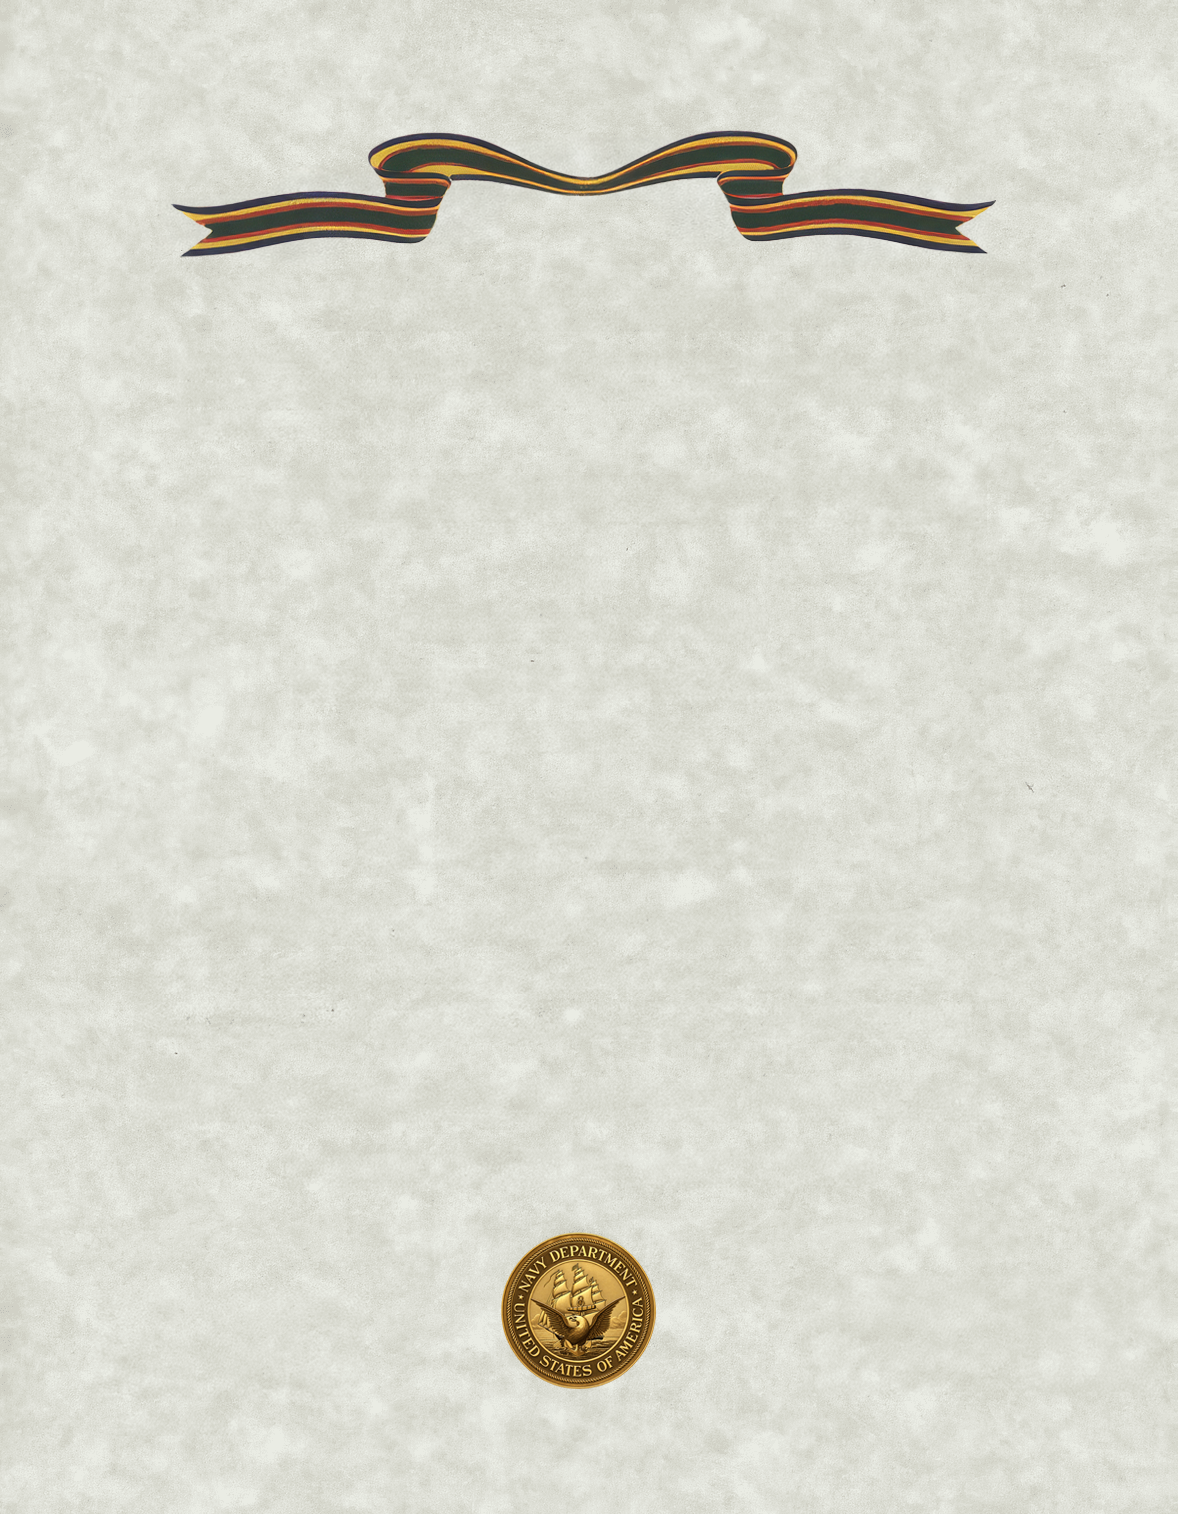
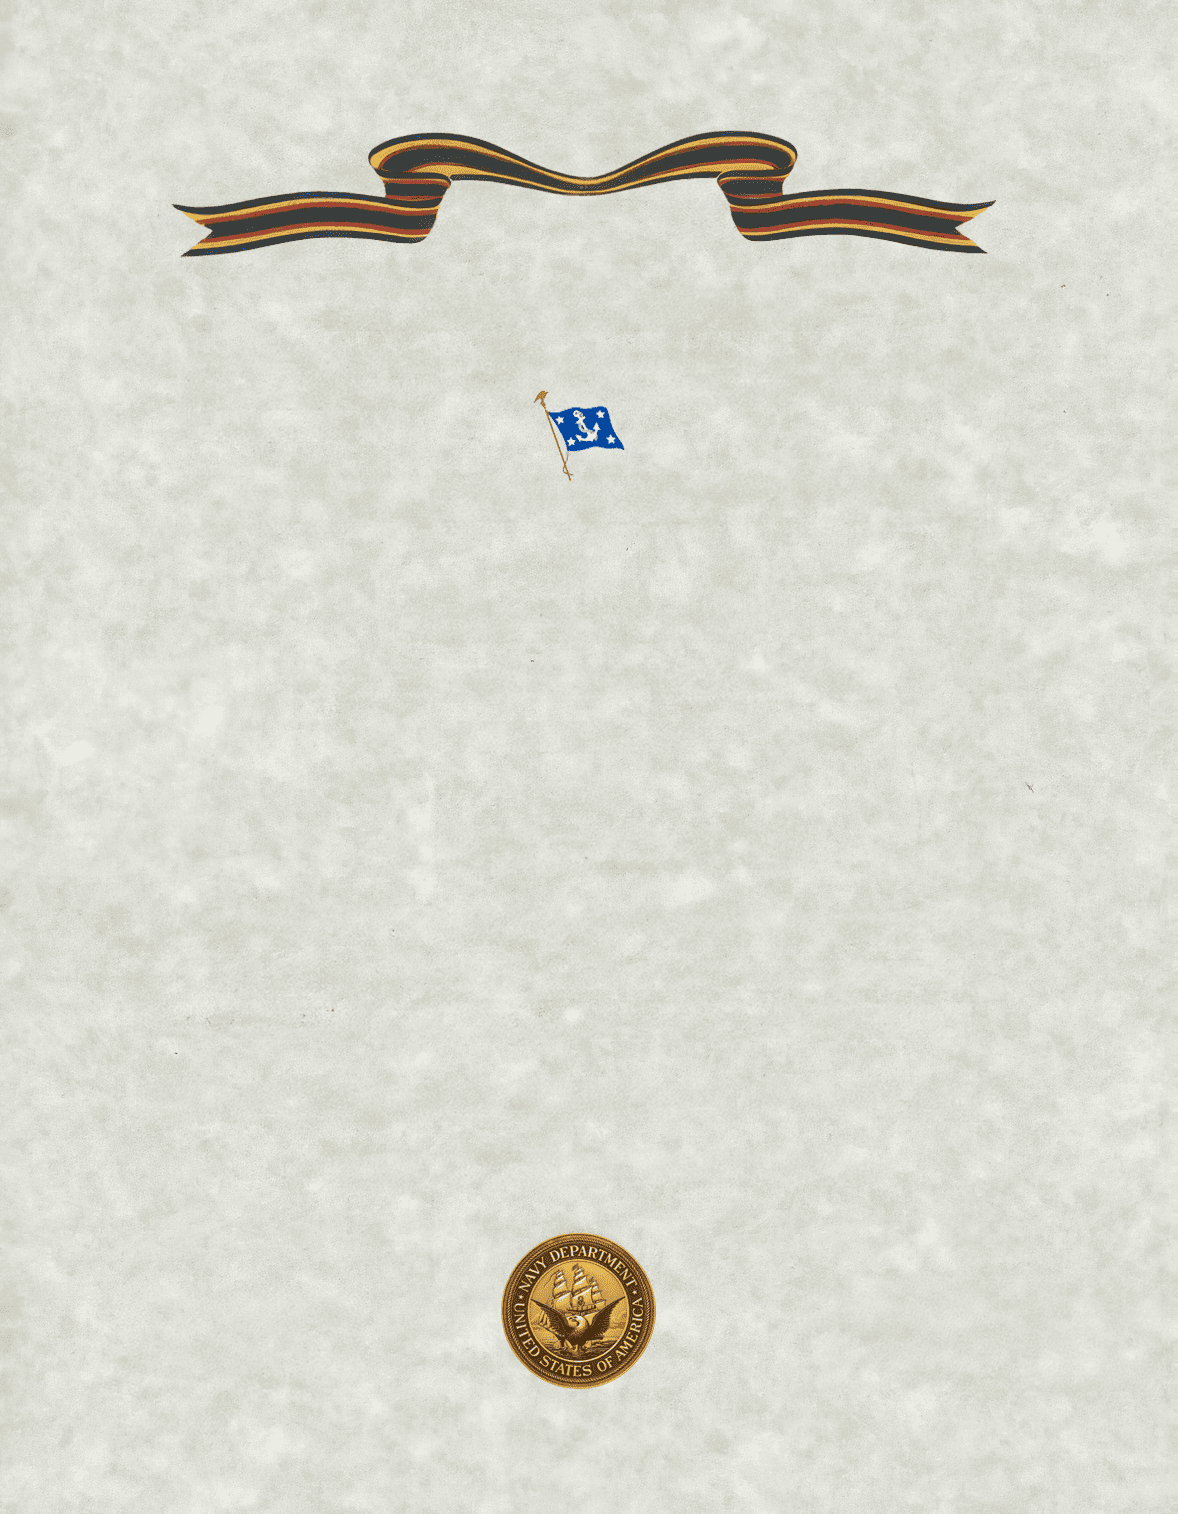
Sanity pass over the award paperwork
Four faults in how a certificate is built, three of them found by Codex
reviewing the USAF set, one that came out of checking the fix.

The rung of a repeat award was resolved through a map keyed by family
name. air_medal exists in both the Air Force and the naval tables, so
the naval ladder overwrote the Air Force one and every Air Force repeat
resolved to the base decoration - no device, no entitlement. The map is
keyed by award id now, which cannot collide.

The repeat-award class the stylesheet has rules for was never put on
the sheet, so those rules had never once applied.

On a form with a closing block the reason is not the end of the thought:
the DUC and both naval unit citations run one sentence straight through
it - "EXTRAORDINARY HEROISM" / "AND OUTSTANDING PERFORMANCE OF DUTY..." -
and the entitlement was wedged in between, leaving a dangling "AND". It
now goes after the first closing line, which finishes that sentence and
leaves any attestation below it, the Navy PUC's "BY ORDER OF THE
SECRETARY OF THE NAVY" and the ROK PUC's "Authorized by the Minister of
Defense", as the last word. Codex had fixed this for the DUC alone and
by appending to the last closing line, which on those two forms is the
attestation.

The ROK PUC form prefixes its command with "U.S.", which on a naval
sheet made "U.S. UNITED STATES NAVAL FORCES".

With the entitlement moved, the repeat layouts follow: the Navy PUC's
award statement keeps its place and simply runs longer, and the Navy
[…]

diff --git a/korea_service_record/static/css/certificate.css b/korea_service_record/static/css/certificate.css
@@ -58,6 +58,7 @@
 .sheet.portrait.duc .ct-for { top: 52.6%; font-family: 'Times New Roman', Georgia, serif; font-size: 1.85em; font-weight: normal; line-height: 1; letter-spacing: 0.05em; -webkit-text-stroke: 0.02em currentColor; }
 .sheet.portrait.duc .ct-for-label { display: block; margin: 0 0 0.85em; }
 .sheet.portrait.duc .ct-close { top: 60.4%; font-size: 1.35em; text-align: justify; text-align-last: left; line-height: 1.85; letter-spacing: 0.06em; }
+.sheet.portrait.duc.repeat-award .ct-close { top: 59.9%; line-height: 1.55; }
 .sheet.portrait.duc .ct-given-block { position: absolute; top: 71.2%; }
 .sheet.portrait.duc .ct-given-block .ct-given { position: static; display: block; font-size: 1.75em; letter-spacing: 0.04em; margin-bottom: 0.55em; }
 .sheet.portrait.duc .ct-signature { bottom: 8.5%; }
@@ -80,25 +81,65 @@
 .sheet.portrait.navy_puc .ct-for-label { display: block; text-align: center; margin-bottom: 0.9em; }
 .sheet.portrait.navy_puc .ct-deed { display: none; }
 .sheet.portrait.navy_puc .ct-close { top: 60%; font-size: 1.2em; line-height: 1.55; text-align: justify; text-align-last: center; }
+/* A repeat citation lengthens the award statement rather than the reason, so
+   the statement keeps its place and simply runs two lines further down; the
+   order line below it already sits clear of them. */
 .sheet.portrait.navy_puc .ct-close + .ct-close { top: 69%; font-style: italic; }
 .sheet.portrait.navy_puc .ct-given-block { top: 73.5%; }
 .sheet.portrait.navy_puc .ct-given { font-size: 1.45em; }
 .sheet.portrait.navy_puc .ct-signature.right { right: auto; left: 66%; transform: translateX(-50%); bottom: 7%; width: 32%; }
 
-.sheet.portrait.navy_unit_commendation .ct-country { top: 25.5%; font-size: 2em; letter-spacing: 0.07em; }
-.sheet.portrait.navy_unit_commendation .ct-pre { top: 31%; font-size: 1.15em; line-height: 1.45; }
-.sheet.portrait.navy_unit_commendation .ct-pre + .ct-pre { top: 34%; }
-.sheet.portrait.navy_unit_commendation .ct-name { top: 38%; font-size: 3em; letter-spacing: 0.045em; white-space: nowrap; }
-.sheet.portrait.navy_unit_commendation .ct-to { top: 44%; font-size: 1.4em; }
-.sheet.portrait.navy_unit_commendation .ct-recipient { top: 47.5%; font-size: 1.55em; }
-.sheet.portrait.navy_unit_commendation .ct-unit { top: 51%; font-size: 1.2em; }
-.sheet.portrait.navy_unit_commendation .ct-service { top: 54%; font-size: 1.15em; }
-.sheet.portrait.navy_unit_commendation .ct-for { top: 58%; font-size: 1.35em; line-height: 1.45; text-align: justify; text-align-last: center; }
-.sheet.portrait.navy_unit_commendation .ct-for-label { display: block; text-align: center; margin-bottom: 0.75em; }
+.sheet.portrait.navy_unit_commendation .ct-country {
+    top: 20.2%; font-size: 2.8em; letter-spacing: 0.015em;
+}
+.sheet.portrait.navy_unit_commendation .ct-pre {
+    font-family: 'Times New Roman', Georgia, serif; line-height: 1;
+}
+/* The flag is printed on the blank: Department heading above it,
+   Washington below it, then the two lines of award language. */
+.sheet.portrait.navy_unit_commendation .ct-country + .ct-pre {
+    top: 33%; font-size: 1.35em; letter-spacing: 0.04em;
+}
+.sheet.portrait.navy_unit_commendation .ct-country + .ct-pre + .ct-pre {
+    top: 36.6%; font-size: 1.2em; letter-spacing: 0.015em;
+}
+.sheet.portrait.navy_unit_commendation .ct-country + .ct-pre + .ct-pre + .ct-pre {
+    top: 39.5%; font-size: 1.2em; letter-spacing: 0.015em;
+}
+.sheet.portrait.navy_unit_commendation .ct-name {
+    top: 43.5%; font-size: 3.6em; letter-spacing: 0.015em; white-space: nowrap;
+}
+.sheet.portrait.navy_unit_commendation .ct-to { top: 49%; font-size: 1.5em; }
+.sheet.portrait.navy_unit_commendation .ct-recipient {
+    top: 52.6%; font-size: 1.7em; font-weight: bold; letter-spacing: 0.035em;
+}
+.sheet.portrait.navy_unit_commendation .ct-unit {
+    top: 56.4%; font-family: 'Courier New', Courier, monospace;
+    font-size: 1.45em; font-weight: bold; letter-spacing: 0.025em;
+}
+.sheet.portrait.navy_unit_commendation .ct-service {
+    top: 59.3%; font-size: 1.3em; letter-spacing: 0.08em;
+}
+.sheet.portrait.navy_unit_commendation .ct-for {
+    top: 62.2%; left: 8%; right: 8%; font-size: 1.4em; font-weight: bold;
+    line-height: 1.45; text-align: justify; text-align-last: center;
+}
+/* The entitlement for a repeat goes at the end of the award statement, which
+   then runs to four lines. The statement starts higher and the date block
+   moves down to make room; there is space, the signature being at 91%. */
+.sheet.portrait.navy_unit_commendation.repeat-award .ct-close { top: 68.2%; }
+.sheet.portrait.navy_unit_commendation.repeat-award .ct-given-block { top: 76%; }
+.sheet.portrait.navy_unit_commendation .ct-for-label {
+    display: block; margin-bottom: 0.75em; text-align: center;
+    font-family: 'Times New Roman', Georgia, serif; font-weight: normal;
+}
 .sheet.portrait.navy_unit_commendation .ct-deed { display: none; }
-.sheet.portrait.navy_unit_commendation .ct-close { top: 67%; font-size: 1.2em; line-height: 1.55; text-align: justify; text-align-last: center; }
-.sheet.portrait.navy_unit_commendation .ct-given-block { top: 77%; }
-.sheet.portrait.navy_unit_commendation .ct-given { font-size: 1.4em; }
+.sheet.portrait.navy_unit_commendation .ct-close {
+    top: 69.5%; left: 8%; right: 8%; font-size: 1.35em; font-weight: bold;
+    line-height: 1.65; text-align: justify; text-align-last: center;
+}
+.sheet.portrait.navy_unit_commendation .ct-given-block { top: 74.8%; }
+.sheet.portrait.navy_unit_commendation .ct-given { font-size: 1.65em; }
 .sheet.portrait.navy_unit_commendation .ct-signature.right { right: auto; left: 66%; transform: translateX(-50%); bottom: 5%; width: 32%; }
 
 /* The filled naval examples use a short award statement rather than a

diff --git a/korea_service_record/static/js/certificate.js b/korea_service_record/static/js/certificate.js
@@ -70,7 +70,7 @@
         const line = (cls, text) => text ? '<div class="' + cls + '">' + esc(text) + "</div>" : "";
         const nameBlock = line("ct-to", c.to) + line("ct-recipient", c.name) + line("ct-unit", c.unit_line) + line("ct-service", c.service);
         el("ct-sheet").innerHTML =
-            '<section class="sheet usaf ' + esc(family) + (drawn ? " drawn" : "") + (portrait ? " portrait" : "") + '"' + style + ">" +
+            '<section class="sheet usaf ' + esc(family) + (drawn ? " drawn" : "") + (portrait ? " portrait" : "") + (c.repeat_award ? " repeat-award" : "") + '"' + style + ">" +
                 (drawn ? "" : '<img class="ct-medal" src="' + esc(data.icon) + '" alt="">') +
                 (c.seal_overlay ? '<img class="ct-service-seal" src="' + esc(c.seal_overlay) + '" alt="">' : "") +
                 '<div class="ct-text">' +

diff --git a/korea_service_record/citations.py b/korea_service_record/citations.py
@@ -134,12 +134,18 @@ def _fill(template: str, facts: Dict[str, Any]) -> str:
     return template.format_map(_Safe(facts))
 
 
-_LADDERS = {}
+# Resolve the rung by award id. A family name such as ``air_medal`` exists in
+# both the USAF and naval tables, so a family-keyed map lets the later naval
+# table overwrite the USAF ladder and silently treats every USAF repeat as
+# the base decoration.
+_RUNG = {}
 for _table in (_USAF_SORTIE, _USAF_PERIOD, _USAF_UNIT, _USAF_SERVICE,
                _NAVAL_SORTIE, _NAVAL_PERIOD, _NAVAL_UNIT, _NAVAL_SERVICE):
-    _LADDERS.update(_table)
+    for _ids in _table.values():
+        for _index, _award_id in enumerate(_ids):
+            _RUNG[_award_id] = _index
 # Twin ids for one rung (the Bronze Star V ladder): both count as that rung.
-_RUNG = {601058: 0, 601059: 1, 601061: 1, 601060: 2, 601062: 2}
+_RUNG.update({601058: 0, 601059: 1, 601061: 1, 601060: 2, 601062: 2})
 _RUNG.update({602048: 0, 602049: 1, 602051: 1, 602050: 2, 602052: 2})
 
 # Naval families whose citation prose follows an existing U.S. family. The
@@ -182,6 +188,10 @@ def _naval_text(text: str, texts: Dict[str, Any], country: int,
     # references such as "Air Force" with the member's actual branch.
     text = replace_term(text, "Department of the Air Force", "Department of the Navy")
     text = replace_term(text, "Secretary of the Air Force", "Secretary of the Navy")
+    # The ROK PUC form prefixes the command with "U.S.". Replace the whole
+    # phrase so a Navy form cannot become "U.S. UNITED STATES NAVAL FORCES".
+    text = replace_term(text, "U.S. Far East Air Forces",
+                        branch.get("command", "United States Naval Forces, Far East"))
     text = replace_term(text, naval.get("air_force", "United States Air Force"),
                         branch.get("service", "United States Navy"))
     text = replace_term(text, naval.get("air_command", "Far East Air Forces"),
@@ -197,11 +207,7 @@ def _naval_text(text: str, texts: Dict[str, Any], country: int,
 
 def _rung(award_id: int) -> int:
     """How far up its ladder an award sits: 0 for the decoration itself."""
-    if award_id in _RUNG:
-        return _RUNG[award_id]
-    fam = FAMILY.get(award_id)
-    ids = _LADDERS.get(fam[1], ()) if fam else ()
-    return ids.index(award_id) if award_id in ids else 0
+    return _RUNG.get(award_id, 0)
 
 
 def _ordinal(cert: Dict[str, Any], day: int) -> str:
@@ -295,6 +301,7 @@ def certificate(lang: str, award_id: int, facts: Dict[str, Any], received: str,
             fill.update({"DAY": "", "MONTH": "", "YEAR": ""})
         given = [_fill(line, fill) for line in form.get("given", [])]
         reason = _fill(form.get("reason", ""), fill)
+        close = [_fill(line, fill) for line in form.get("close", "").split(chr(10)) if line]
         if device:
             # The medal as the form names it, without its article.
             medal = form.get("title", "")
@@ -302,7 +309,23 @@ def certificate(lang: str, award_id: int, facts: Dict[str, Any], received: str,
             clause = _fill(cert["repeat"], {"DEVICE": device, "MEDAL": medal})
             if reason and reason[0].isupper() and not reason.isupper():
                 clause = clause.lower().replace("oak leaf cluster", "Oak Leaf Cluster").replace(medal.lower(), medal.title())
-            reason = reason.rstrip(".") + clause
+            entitlement = clause.lstrip(", ")
+            if entitlement.upper().startswith("AND "):
+                entitlement = entitlement[4:]
+            recipient = "THE RECIPIENT " if reason.isupper() else "The recipient "
+            if close:
+                # On a form with a closing block the reason is not the end of
+                # the thought - the DUC and both naval unit citations run one
+                # sentence straight through it ("EXTRAORDINARY HEROISM" / "AND
+                # OUTSTANDING PERFORMANCE OF DUTY..."), so a clause wedged in
+                # between leaves a dangling "AND". The entitlement goes after
+                # the first closing line instead, which finishes that sentence
+                # and still leaves any attestation below it - the Navy PUC signs
+                # off "BY ORDER OF THE SECRETARY OF THE NAVY", the ROK PUC
+                # "Authorized by the Minister of Defense" - as the last word.
+                close[0] = close[0].rstrip() + " " + recipient + entitlement
+            else:
+                reason = reason.rstrip(".") + ". " + recipient + entitlement
         offices = form.get("signer", "fifth")
         if isinstance(offices, str):
             offices = ["", offices]                      # right-hand signature only
@@ -325,6 +348,7 @@ def certificate(lang: str, award_id: int, facts: Dict[str, Any], received: str,
         return {
             "form": "usaf",
             "template": template,
+            "repeat_award": bool(device),
             "seal_overlay": ("/static/images/certificates/Navy_seal_overlay_landscape.png"
                              if seal_overlay else ""),
             "header": form.get("header", ""),
@@ -340,7 +364,7 @@ def certificate(lang: str, award_id: int, facts: Dict[str, Any], received: str,
             "reason": reason,
             "where": _fill(form.get("where", ""), fill),
             "deed": paragraphs[1] if len(paragraphs) > 2 else "",
-            "close": [_fill(line, fill) for line in form.get("close", "").split(chr(10)) if line],
+            "close": close,
             "given": given,
             "seal": "DEPARTMENT OF THE NAVY" if is_naval else cert.get("seal", ""),
             "signer": signer["name"], "signer_title": signer["title"],
